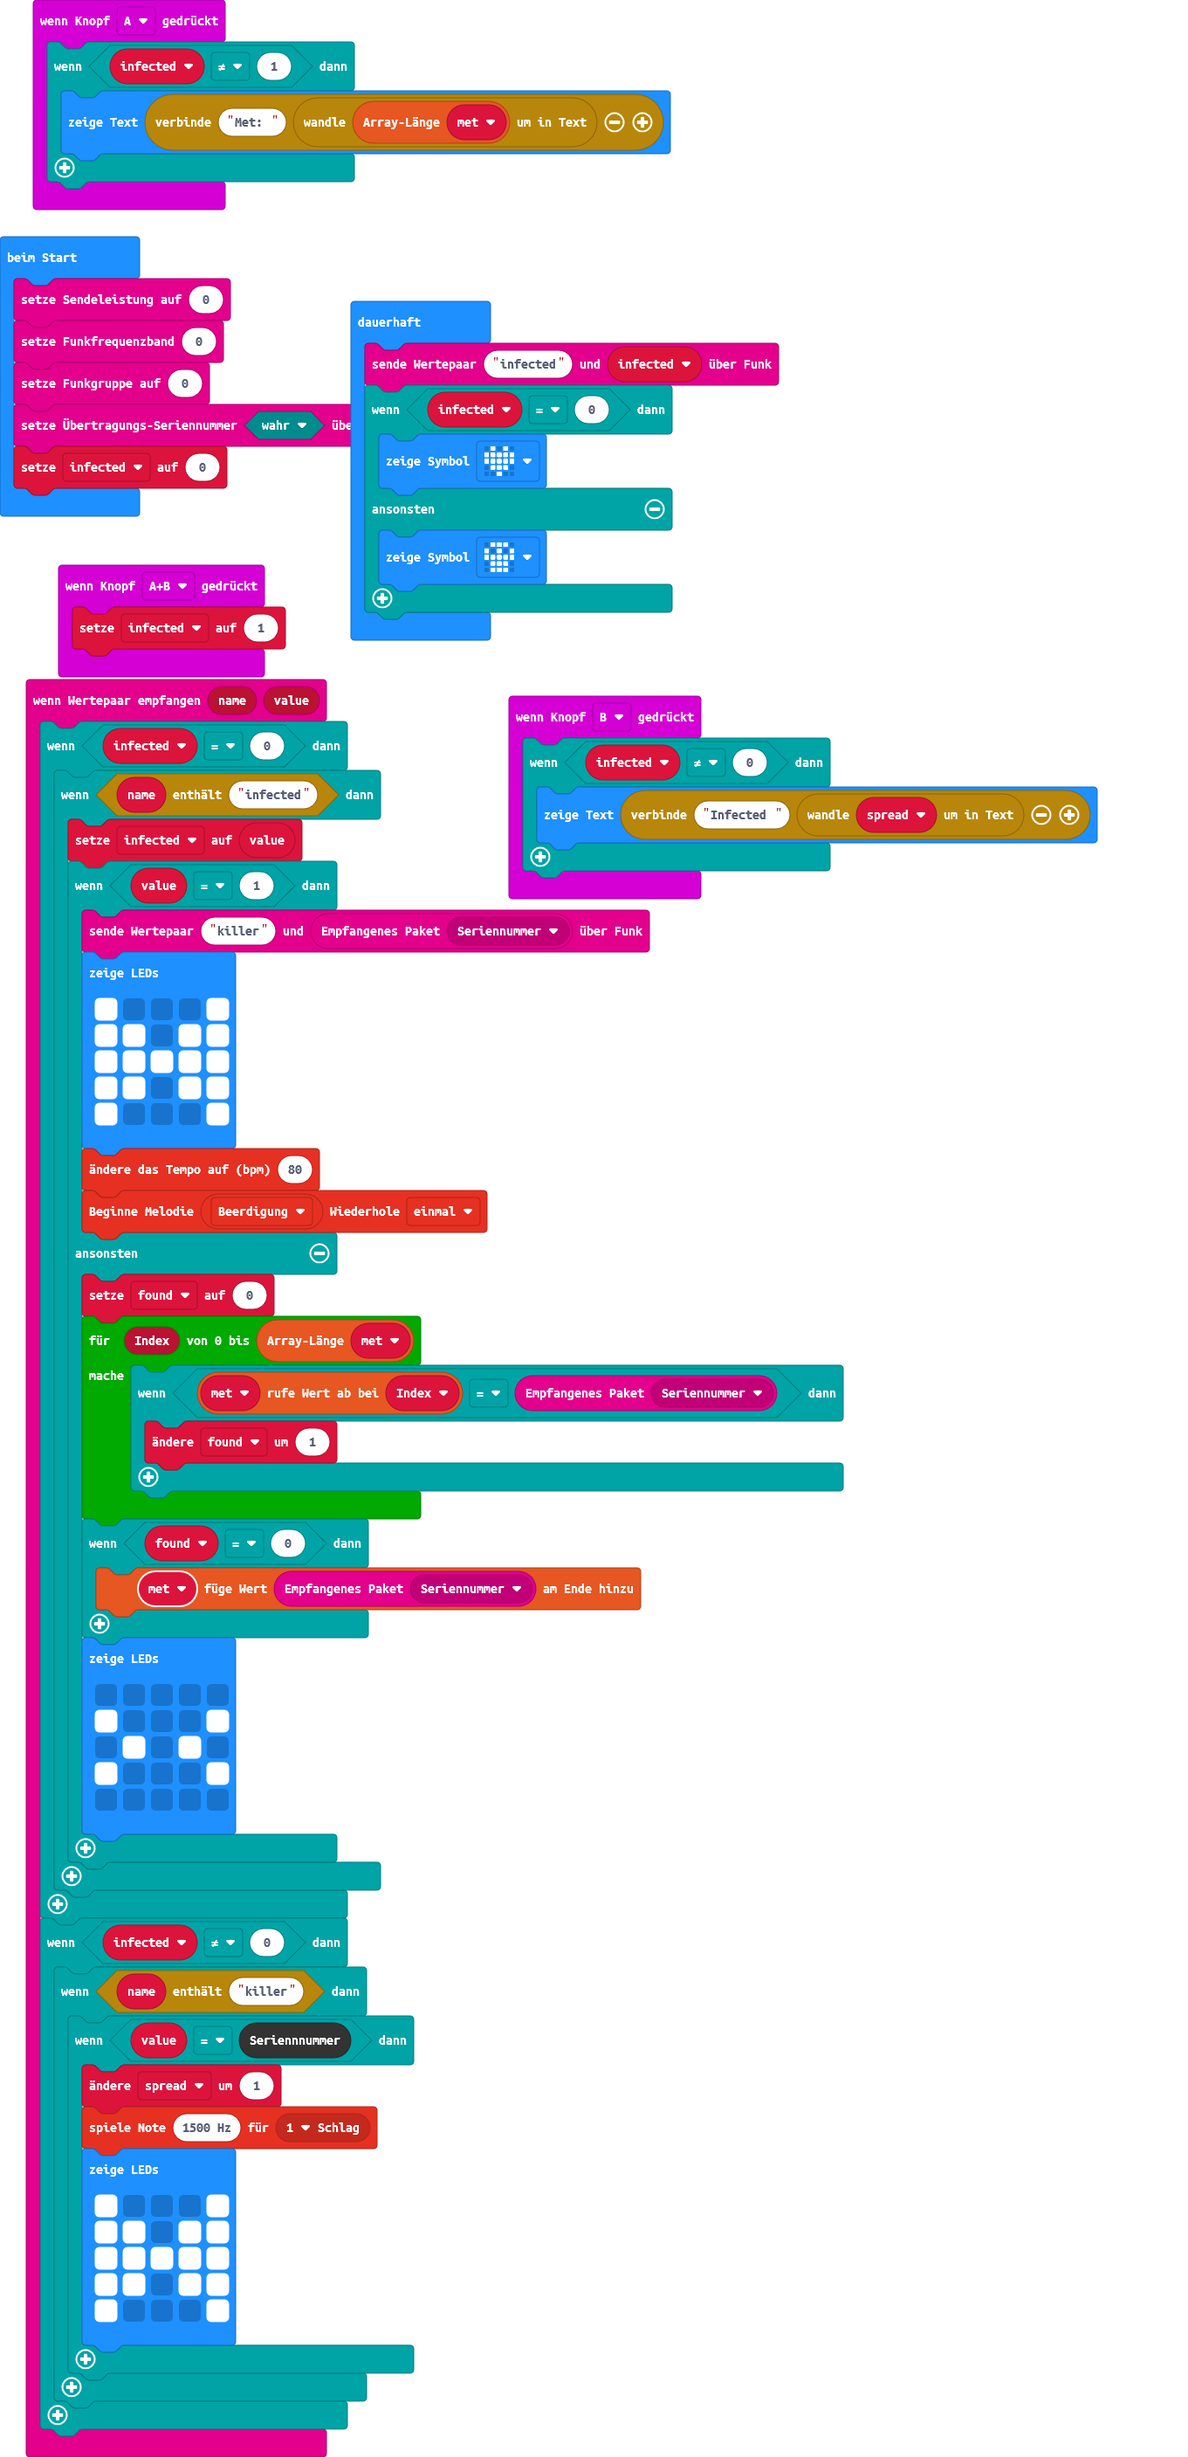
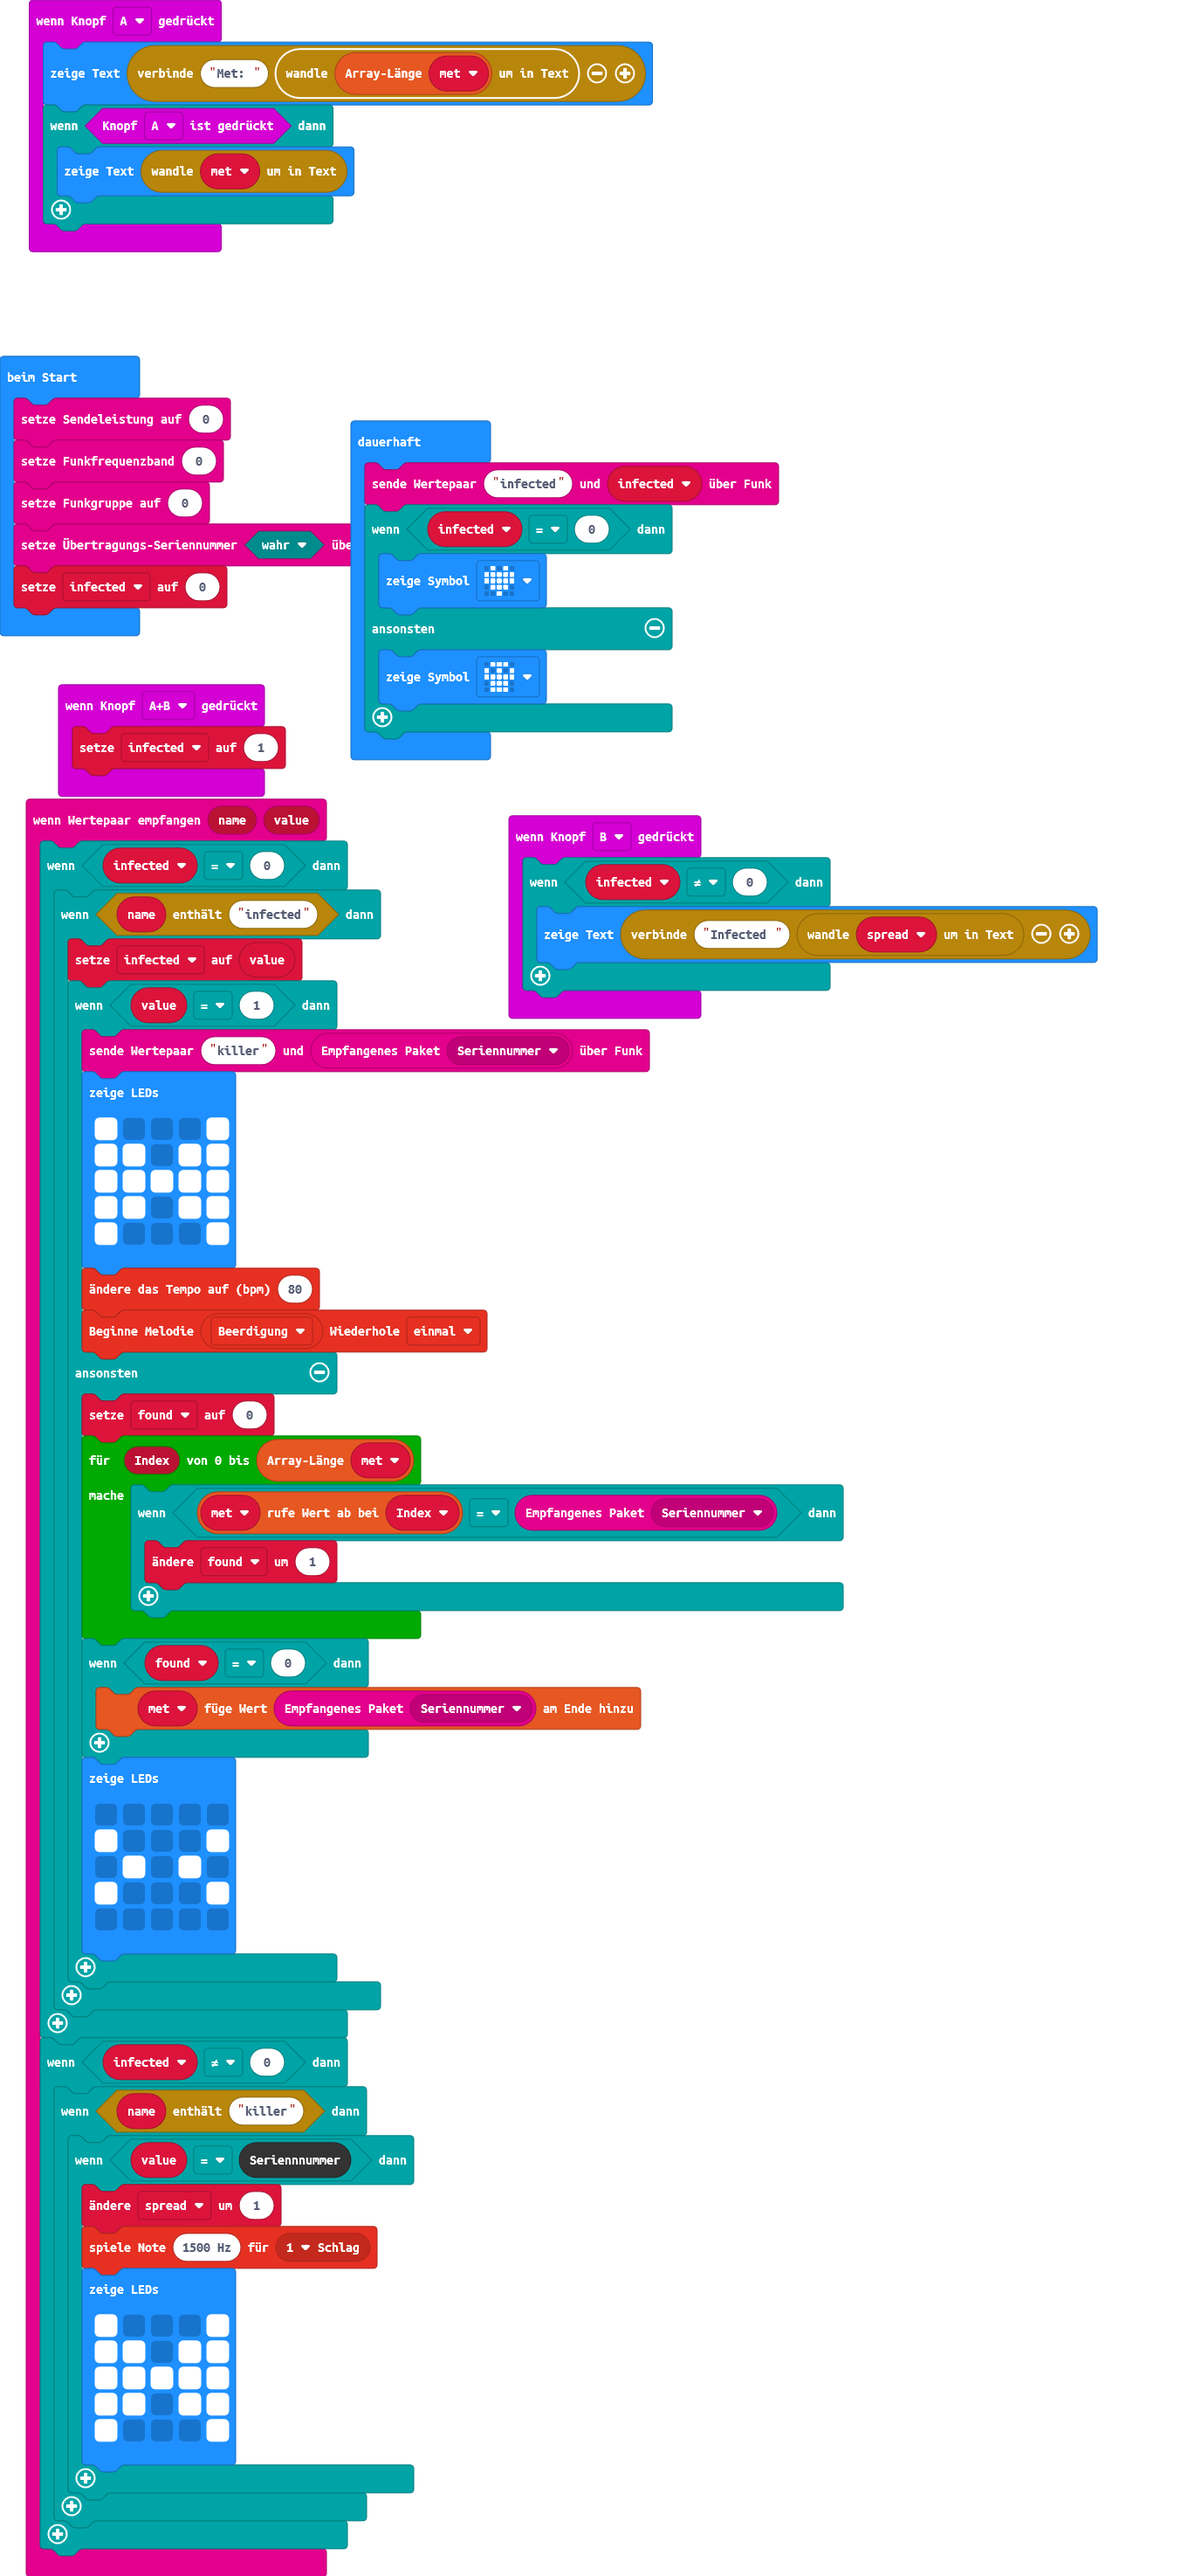
Now shows all ids met if you hold A

Changed region(s): [[0.0, 0.0, 0.9258, 1.0]]

diff --git a/main.ts b/main.ts
@@ -1,6 +1,7 @@
 input.onButtonPressed(Button.A, function () {
-    if (infected != 1) {
-        basic.showString("Met: " + convertToText(met.length))
+    basic.showString("Met: " + convertToText(met.length))
+    if (input.buttonIsPressed(Button.A)) {
+        basic.showString(convertToText(met))
     }
 })
 input.onButtonPressed(Button.AB, function () {
